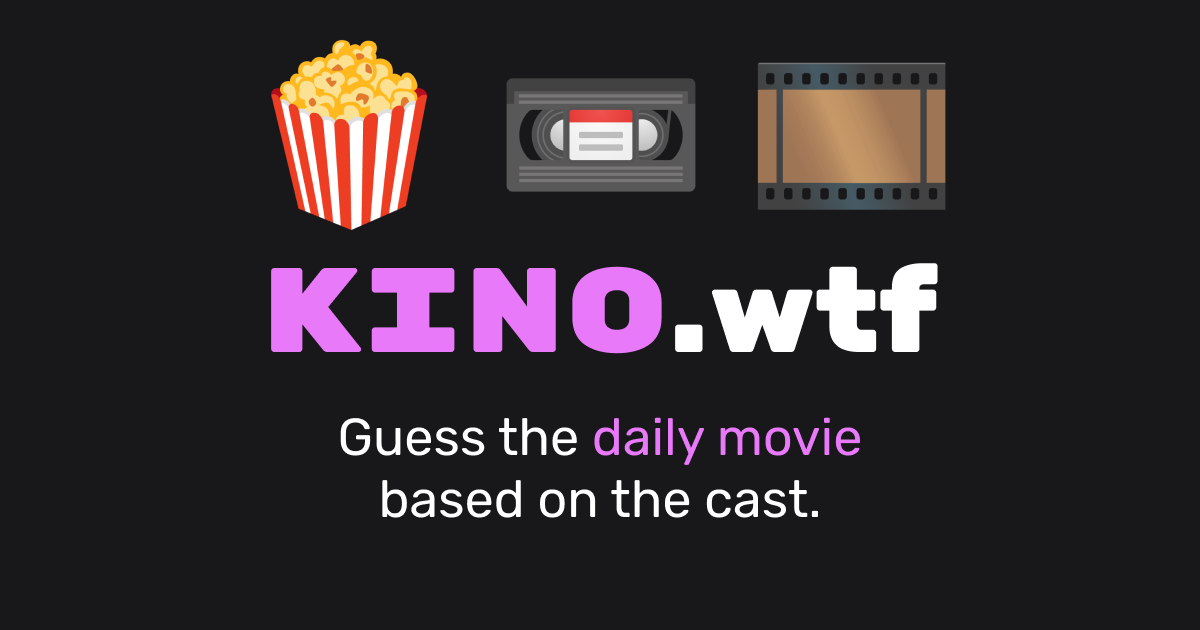
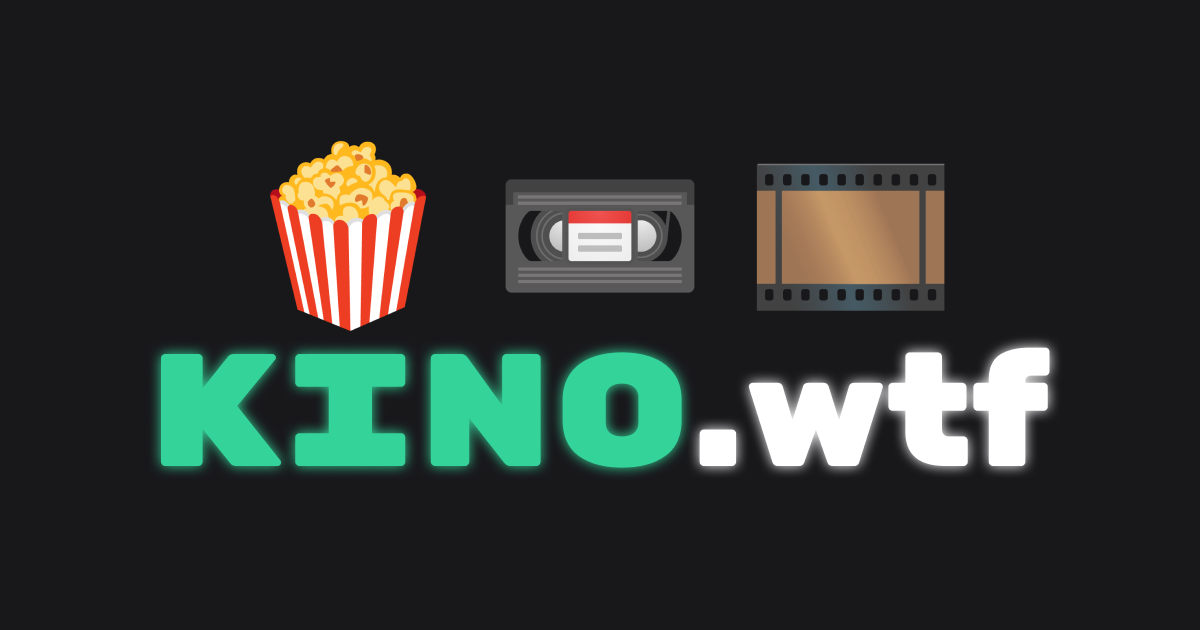
color theme

diff --git a/tailwind.config.js b/tailwind.config.js
@@ -3,7 +3,7 @@ import defaultTheme from 'tailwindcss/defaultTheme'
 import colors from 'tailwindcss/colors'
 
 const primary = colors.zinc;
-const accent = colors.fuchsia;
+const accent = colors.emerald;
 
 export default {
   content: [
